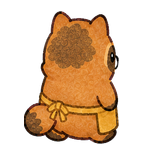
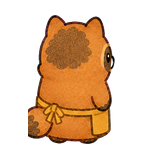
Refine blacksmith raccoon idle sprites

diff --git a/docs/art/image-archive.html b/docs/art/image-archive.html
@@ -2141,16 +2141,21 @@
         };
       }))),
 
-      ...[['A', 'P02'], ['B', 'P03'], ['C', 'P02'], ['D', 'P03']].map(([type, revision]) => ({
-        c: 'clerks', shop: '대장간', archive: true,
-        label: `대장간 일꾼 완성형 원화 · ${type}타입 · 1~3단 × 대각선 4방향`,
-        file: `CLERK-SMITH-TYPE-${type}-GROWTH-DIAGONALS-V0.1-${revision}.png`, icon: '🦝',
-        size: '승급·방향 원화',
-        actual: '1536×1024 RGB 수정 시트 · 귀·발·몸 중심 블루프린트 정렬 · 1단 황토색 면 / 2단 갈색 가죽 / 3단 멜빵형 가죽 앞치마 · ↙ ↘ ↖ ↗',
-        status: 'draft', priority: 10,
-        src: `generated/CLERK-SMITH-TYPE-${type}-GROWTH-DIAGONALS-V0.1-${revision}.png`,
-        path: `docs/art/generated/CLERK-SMITH-TYPE-${type}-GROWTH-DIAGONALS-V0.1-${revision}.png`
-      })),
+      ...[['A', 'P03'], ['B', 'P04'], ['C', 'P03'], ['D', 'P07']].map(([type, revision]) => {
+        const runtimeOnly = type === 'D';
+        return {
+          c: 'clerks', shop: '대장간', archive: true,
+          label: `대장간 일꾼 완성형 원화 · ${type}타입 · 1~3단 × ${runtimeOnly ? '실사용 2방향' : '대각선 검토 원화'}`,
+          file: `CLERK-SMITH-TYPE-${type}-GROWTH-DIAGONALS-V0.1-${revision}.png`, icon: '🦝',
+          size: '승급·방향 원화',
+          actual: runtimeOnly
+            ? '1536×1024 RGBA · 귀 무늬·점박이 제거 · 1단 황토색 면 / 2단 갈색 가죽 / 3단 멜빵형 가죽 앞치마 · ↘ ↗'
+            : '1536×1024 RGBA 검토 시트 · 귀·발·몸 중심 블루프린트 정렬 · 런타임은 ↘ ↗ 두 방향만 사용',
+          status: 'draft', priority: 10,
+          src: `generated/CLERK-SMITH-TYPE-${type}-GROWTH-DIAGONALS-V0.1-${revision}.png`,
+          path: `docs/art/generated/CLERK-SMITH-TYPE-${type}-GROWTH-DIAGONALS-V0.1-${revision}.png`
+        };
+      }),
 
       {
         c: 'clerks', legacy: true, label: '이전 레이어형 점장 본체 · A타입 무늬 · 방향 시트',

diff --git a/docs/art/IMAGE_ARCHIVE.md b/docs/art/IMAGE_ARCHIVE.md
@@ -713,26 +713,26 @@
 
 ---
 
-## 대장간 일꾼 완성형 A~D · 1~3단 × 대각선 4방향 · 2026-08-26
+## 대장간 일꾼 완성형 A~D · 1~3단 · 2026-08-26
 
-장비를 붙이는 구조는 중단했다. 대장간 일꾼은 A~D 무늬 타입별 완성형이며, 최초 배치와 추가 채용을 같은 그림 체계로 쓴다. 손 도구 없이 앞치마만 승급한다. 열 순서는 `↙ ↘ ↖ ↗`, 행 순서는 1~3단이다.
+장비를 붙이는 구조는 중단했다. 대장간 일꾼은 A~D 무늬 타입별 완성형이며, 최초 배치와 추가 채용을 같은 그림 체계로 쓴다. 손 도구 없이 앞치마만 승급한다. 런타임 필수 원화는 `↘ ↗` 두 방향이며 반대쪽은 코드 반전을 사용한다. A~C의 네 방향 판은 기존 검토 원화로 보존하고, 재설계한 D부터 두 방향만 제작한다.
 
 <table>
   <tr>
-    <td align="center"><img src="./generated/CLERK-SMITH-TYPE-A-GROWTH-DIAGONALS-V0.1-P02.png" width="360" alt="대장간 점장 A타입 1~3단 대각선 네 방향 수정본"></td>
-    <td align="center"><img src="./generated/CLERK-SMITH-TYPE-B-GROWTH-DIAGONALS-V0.1-P03.png" width="360" alt="대장간 점장 B타입 1~3단 대각선 네 방향 수정본"></td>
+    <td align="center"><img src="./generated/CLERK-SMITH-TYPE-A-GROWTH-DIAGONALS-V0.1-P03.png" width="360" alt="대장간 점장 A타입 1~3단 대각선 차렷자세 수정본"></td>
+    <td align="center"><img src="./generated/CLERK-SMITH-TYPE-B-GROWTH-DIAGONALS-V0.1-P04.png" width="360" alt="대장간 점장 B타입 1~3단 대각선 차렷자세와 귀 수정본"></td>
   </tr>
   <tr>
     <td><strong>A타입 · 초안</strong><br>황토색 면 → 갈색 가죽 → 멜빵형 가죽 앞치마.</td>
     <td><strong>B타입 · 초안</strong><br>같은 승급 규칙, B타입 비대칭 털 무늬.</td>
   </tr>
   <tr>
-    <td align="center"><img src="./generated/CLERK-SMITH-TYPE-C-GROWTH-DIAGONALS-V0.1-P02.png" width="360" alt="대장간 점장 C타입 1~3단 대각선 네 방향 수정본"></td>
-    <td align="center"><img src="./generated/CLERK-SMITH-TYPE-D-GROWTH-DIAGONALS-V0.1-P03.png" width="360" alt="대장간 점장 D타입 1~3단 대각선 네 방향 수정본"></td>
+    <td align="center"><img src="./generated/CLERK-SMITH-TYPE-C-GROWTH-DIAGONALS-V0.1-P03.png" width="360" alt="대장간 점장 C타입 1~3단 대각선 차렷자세 수정본"></td>
+    <td align="center"><img src="./generated/CLERK-SMITH-TYPE-D-GROWTH-DIAGONALS-V0.1-P07.png" width="360" alt="대장간 점장 D타입 1~3단 실제 사용 방향 ↘ ↗ 재설계본"></td>
   </tr>
   <tr>
     <td><strong>C타입 · 초안</strong><br>손에 든 물건 없이 앞치마 재료만 성장.</td>
-    <td><strong>D타입 · 초안</strong><br>런타임 분리 전 전체 실루엣 검토 시트.</td>
+    <td><strong>D타입 · 초안</strong><br>귀 무늬·점박이를 없앤 연황색 몸, 단순 얼굴 마스크, 큰 등판 한 면, 단색 꼬리 끝. 열은 `↘ ↗`만 사용.</td>
   </tr>
 </table>
 
@@ -741,6 +741,6 @@
 ### 런타임 24장 분리
 
 <table>
-  <tr><td align="center"><img src="./generated/SMITH-CLERK-RUNTIME-24-PREVIEW-V0.2.png" width="900" alt="방향 귀 발 위치를 수정한 대장간 일꾼 A D 무늬 1 3단 옆 뒤 런타임 24장"></td></tr>
+  <tr><td align="center"><img src="./generated/SMITH-CLERK-RUNTIME-24-PREVIEW-V0.3.png" width="900" alt="차렷자세 발 크기 귀 무늬를 수정한 대장간 점장 A D 무늬 1 3단 옆 뒤 런타임 24장"></td></tr>
   <tr><td><strong>Revised · LOG-SMITH-COMPLETE-003</strong><br>가까운 두 열을 ↙·↘로 분리하고 귀·발·몸 중심을 블루프린트에 맞췄다. 수정된 ↘ 원화는 side, ↗ 원화는 back이며 반대쪽은 코드가 뒤집는다. 24장 모두 144×144 RGBA, 발끝 y=143, 중심 오차 1px 이내를 통과했다.</td></tr>
 </table>

diff --git a/docs/art/05_GENERATION_LOG.md b/docs/art/05_GENERATION_LOG.md
@@ -2131,3 +2131,27 @@
 - 24/24장 모두 `144×144 RGBA`다.
 - 발끝은 모두 `y=143`, 가로 중심 오차는 1px 이내이며 귀 위쪽 잘림이 없다.
 - 현재 상태: `초안`. 실제 Godot 이동 화면에서 좌우 반전과 앞뒤 판독을 최종 확인한다.
+
+---
+
+## LOG-SMITH-COMPLETE-004 · A~C 차렷자세 확정과 D타입 2방향 재설계
+
+- 날짜: 2026-08-26
+- 확정 원화: A `P03`, B `P04`, C `P03`
+- D 재설계 원화: `CLERK-SMITH-TYPE-D-GROWTH-DIAGONALS-V0.1-P07.png`
+- 런타임 미리보기: `generated/SMITH-CLERK-RUNTIME-24-PREVIEW-V0.3.png`
+- 도구: built-in image generation/edit + Sharp 기반 런타임 분리
+- 결과: `Revised / Draft`
+
+### 관찰
+
+- A~C는 보행처럼 벌어진 발을 같은 크기·같은 접지선의 차렷자세로 교정했다.
+- D는 방향마다 뒤집히던 귀 무늬와 점박이를 폐기했다. 연황색 귀, 단순 얼굴 마스크, 뒤쪽의 큰 등판 한 면, 단색 꼬리 끝만 사용한다.
+- 실제 런타임에 필요한 `↘ side`와 `↗ back` 두 방향만 D 원화에 남겼다. 최초 생성된 뒤 방향이 `↖`으로 읽혀 두 번째 열을 정확히 반전하여 `↗`으로 수정했다.
+- A~C의 네 방향 판은 검토 원화로 보존하지만 런타임 파생은 동일하게 `↘`·`↗`만 사용한다.
+
+### 판정
+
+- 24/24장 모두 `144×144 RGBA`, 발끝 `y=143`, 가로 중심 오차 1px 이내를 통과했다.
+- D 뒤 방향은 얼굴 끝이 화면 오른쪽, 꼬리가 화면 왼쪽에 있어 `↗`으로 읽힌다.
+- 현재 상태: `초안`. Godot 이동 화면에서 좌우 반전만 최종 확인한다.

diff --git a/docs/art/blueprints/CHARACTER-BODY-SCALE-SPEC-V0.1.md b/docs/art/blueprints/CHARACTER-BODY-SCALE-SPEC-V0.1.md
@@ -17,6 +17,7 @@
 - 몸은 캔버스 중심에 놓되 꼬리 때문에 몸통 자체가 밀려나지 않게 한다.
 - 귀·발·꼬리·얼굴 외곽선은 의상 때문에 잘리거나 이동하지 않는다.
 - 좌우 반전으로 사용하는 방향은 몸통 중심과 발 접지점이 동일해야 한다.
+- 현재 런타임 원화는 `↘ side`와 `↗ back` 두 장만 필수로 만든다. 반대 방향은 코드 반전을 사용하고, 네 방향 비교 시트는 필요한 경우에만 만든다.
 
 ## 2. A타입 너구리 기준 상자
 
@@ -63,7 +64,7 @@
 - `외형 규격`: 기본 털색, 눈가 무늬, 등 무늬, 꼬리 무늬
 - `의상 규격`: 허리선, 앞치마 면, 멜빵 경로
 
-무늬가 달라도 신체 외곽선과 발 위치는 바뀌지 않는다. 방향별 무늬는 같은 개체의 한 무늬가 몸을 돌아 이어진 것처럼 설계한다.
+무늬가 달라도 신체 외곽선과 발 위치는 바뀌지 않는다. 방향별 무늬는 같은 개체의 한 무늬가 몸을 돌아 이어진 것처럼 설계하며, 좌우 반전 때문에 귀나 몸의 고정 무늬가 다른 쪽으로 순간 이동하지 않게 한다. 방향 제작이 불안정한 비대칭 무늬는 귀·얼굴에서 제거하고 등판의 큰 단색 면처럼 단순화한다.
 
 ## 5. 다른 동물로 확장할 때
 
